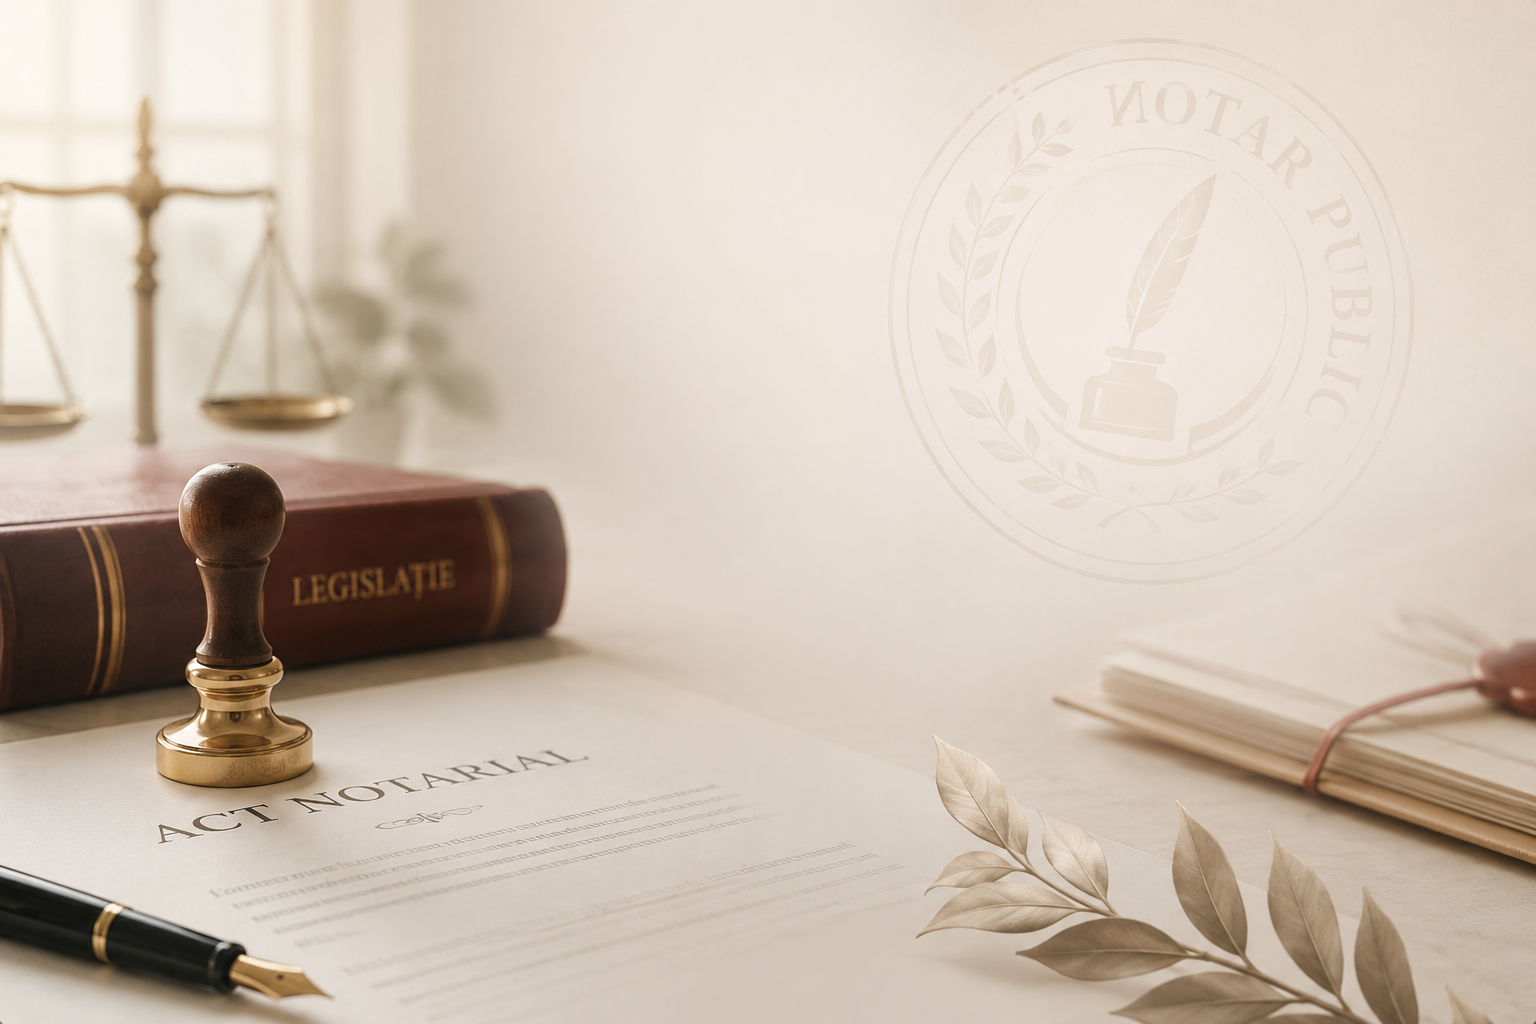
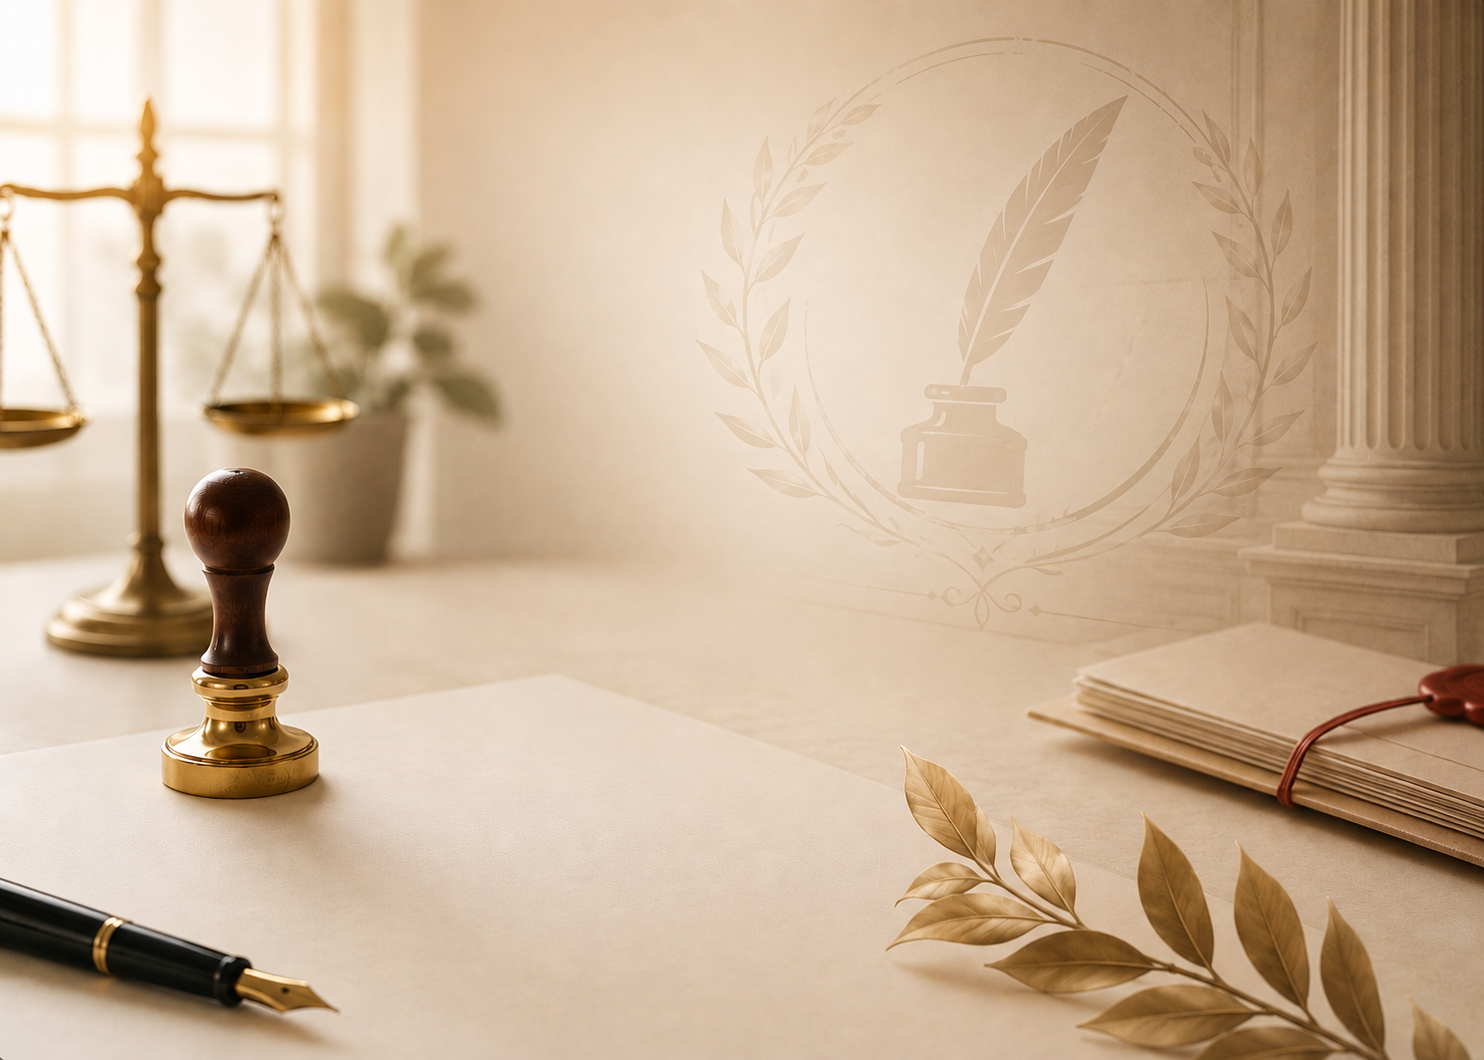
fixed wallpaper handling on mobile devices (new background in portrait mode) and deleted original background image

diff --git a/src/main/resources/static/css/style.css b/src/main/resources/static/css/style.css
@@ -137,10 +137,20 @@ a:hover {
     flex: 1 0 auto;
     min-height: 320px;
     padding: 1rem;
-    background: var(--brand-bg) url('/images/background_2.png') center center / contain no-repeat;
+    background: var(--brand-bg) url('/images/background.png') center center / contain no-repeat;
     text-align: center;
     display: flex;
     align-items: center;
+}
+
+/* Portrait viewports (phones, or any browser window taller than it is wide) get a dedicated
+   portrait-cropped image instead of shrinking the landscape one - background.png's elements are
+   spread across its full width, so `contain`-ing it into a narrow viewport leaves large empty
+   bands above/below, and `cover`-ing it would crop most of those elements out. */
+@media (orientation: portrait) {
+    .hero-section {
+        background: var(--brand-bg) url('/images/background_mobile.png') center center / cover no-repeat;
+    }
 }
 
 .hero-panel {

diff --git a/src/test/java/com/brinza/notary/config/HeroBackgroundResponsiveTest.java b/src/test/java/com/brinza/notary/config/HeroBackgroundResponsiveTest.java
@@ -1,0 +1,82 @@
+package com.brinza.notary.config;
+
+import org.junit.jupiter.api.Test;
+import org.springframework.beans.factory.annotation.Autowired;
+import org.springframework.boot.test.context.SpringBootTest;
+import org.springframework.boot.webmvc.test.autoconfigure.AutoConfigureMockMvc;
+import org.springframework.test.web.servlet.MockMvc;
+
+import java.util.regex.Matcher;
+import java.util.regex.Pattern;
+
+import static org.assertj.core.api.Assertions.assertThat;
+import static org.springframework.test.web.servlet.request.MockMvcRequestBuilders.get;
+import static org.springframework.test.web.servlet.result.MockMvcResultMatchers.status;
+
+/**
+ * {@code .hero-section} (style.css) shows a landscape background on wide/landscape viewports and
+ * switches to a dedicated portrait-cropped image via {@code @media (orientation: portrait)} on
+ * viewports taller than they are wide (phones, or a desktop window resized narrow) — see the
+ * comment above that media query in style.css for why a plain {@code cover}/{@code contain} swap
+ * on the same image wasn't enough.
+ */
+@SpringBootTest
+@AutoConfigureMockMvc
+class HeroBackgroundResponsiveTest {
+
+    private static final Pattern VERSIONED_CSS = Pattern.compile("/css/style-([0-9a-f]{32})\\.css");
+    private static final Pattern PORTRAIT_MEDIA_BLOCK =
+            Pattern.compile("@media \\(orientation: portrait\\) \\{([\\s\\S]*?)\\n}");
+
+    // The resource chain's CssLinkResourceTransformer rewrites url(...) references inside CSS to
+    // the same content-hashed filenames it serves the images under, so the served stylesheet never
+    // contains the literal "background.png" - only "background-<hash>.png".
+    private static final Pattern LANDSCAPE_BACKGROUND_RULE = Pattern.compile(
+            "url\\('/images/background(?:-[0-9a-f]{32})?\\.png'\\) center center / contain no-repeat");
+    private static final Pattern MOBILE_BACKGROUND_RULE = Pattern.compile(
+            "url\\('/images/background_mobile(?:-[0-9a-f]{32})?\\.png'\\) center center / cover no-repeat");
+
+    @Autowired
+    private MockMvc mockMvc;
+
+    private String fetchStylesheet() throws Exception {
+        String html = mockMvc.perform(get("/admin/login")).andReturn().getResponse().getContentAsString();
+        Matcher matcher = VERSIONED_CSS.matcher(html);
+        assertThat(matcher.find()).as("versioned stylesheet link in %s", html).isTrue();
+
+        return mockMvc.perform(get(matcher.group()))
+                .andExpect(status().isOk())
+                .andReturn().getResponse().getContentAsString();
+    }
+
+    @Test
+    void defaultHeroBackgroundUsesTheLandscapeImageWithContain() throws Exception {
+        String css = fetchStylesheet();
+
+        String beforeMediaQuery = css.substring(0, css.indexOf("@media (orientation: portrait)"));
+        assertThat(beforeMediaQuery).contains(".hero-section {");
+        assertThat(LANDSCAPE_BACKGROUND_RULE.matcher(beforeMediaQuery).find())
+                .as("landscape background rule in %s", beforeMediaQuery)
+                .isTrue();
+    }
+
+    @Test
+    void portraitViewportsSwitchToTheMobileImageWithCover() throws Exception {
+        String css = fetchStylesheet();
+
+        Matcher matcher = PORTRAIT_MEDIA_BLOCK.matcher(css);
+        assertThat(matcher.find()).as("an @media (orientation: portrait) block in %s", css).isTrue();
+
+        String mediaBlock = matcher.group(1);
+        assertThat(mediaBlock).contains(".hero-section {");
+        assertThat(MOBILE_BACKGROUND_RULE.matcher(mediaBlock).find())
+                .as("mobile background rule in %s", mediaBlock)
+                .isTrue();
+    }
+
+    @Test
+    void bothHeroBackgroundImagesAreServable() throws Exception {
+        mockMvc.perform(get("/images/background.png")).andExpect(status().isOk());
+        mockMvc.perform(get("/images/background_mobile.png")).andExpect(status().isOk());
+    }
+}
